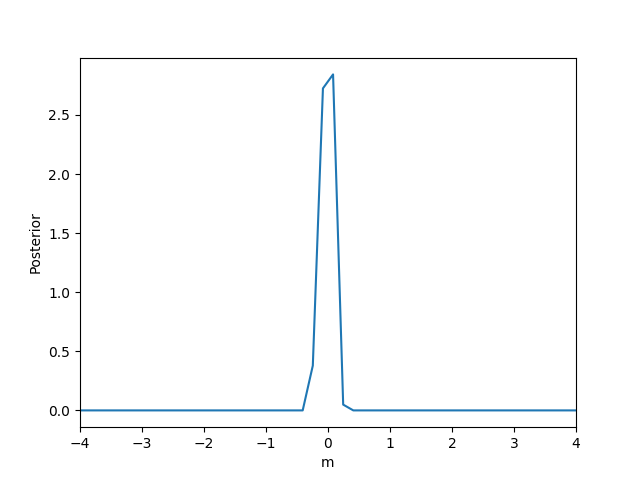
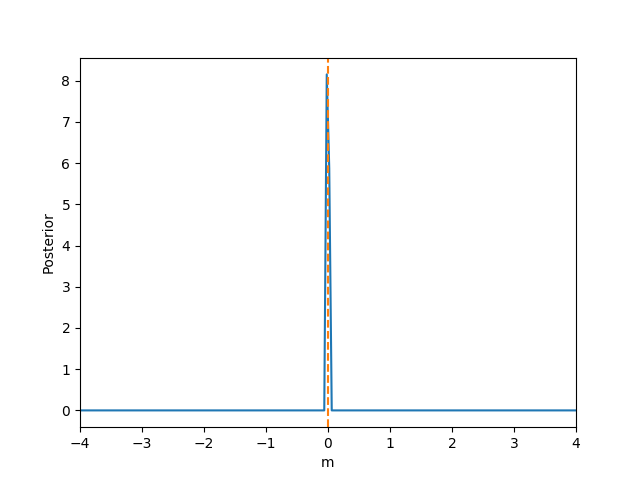
cont

diff --git a/pyabc_tests/normal/model.py b/pyabc_tests/normal/model.py
@@ -11,7 +11,7 @@ import os
 # noise
 std = 1
 # number of replicates
-n_r = 100
+n_r = 10000
 
 
 def model(th):
@@ -63,6 +63,6 @@ def visualize(label, history, show_true=True):
     t = history.max_t
     df, w = history.get_distribution(m=0, t=t)
     ax = pyabc.visualization.plot_kde_1d(df, w, xmin=prior_lb, xmax=prior_ub,
-        x='m', refval=th_true)
+        x='m', numx=200, refval=th_true)
     plt.savefig(label + "_kde_1d_" + str(t) + ".png")
     plt.close()
